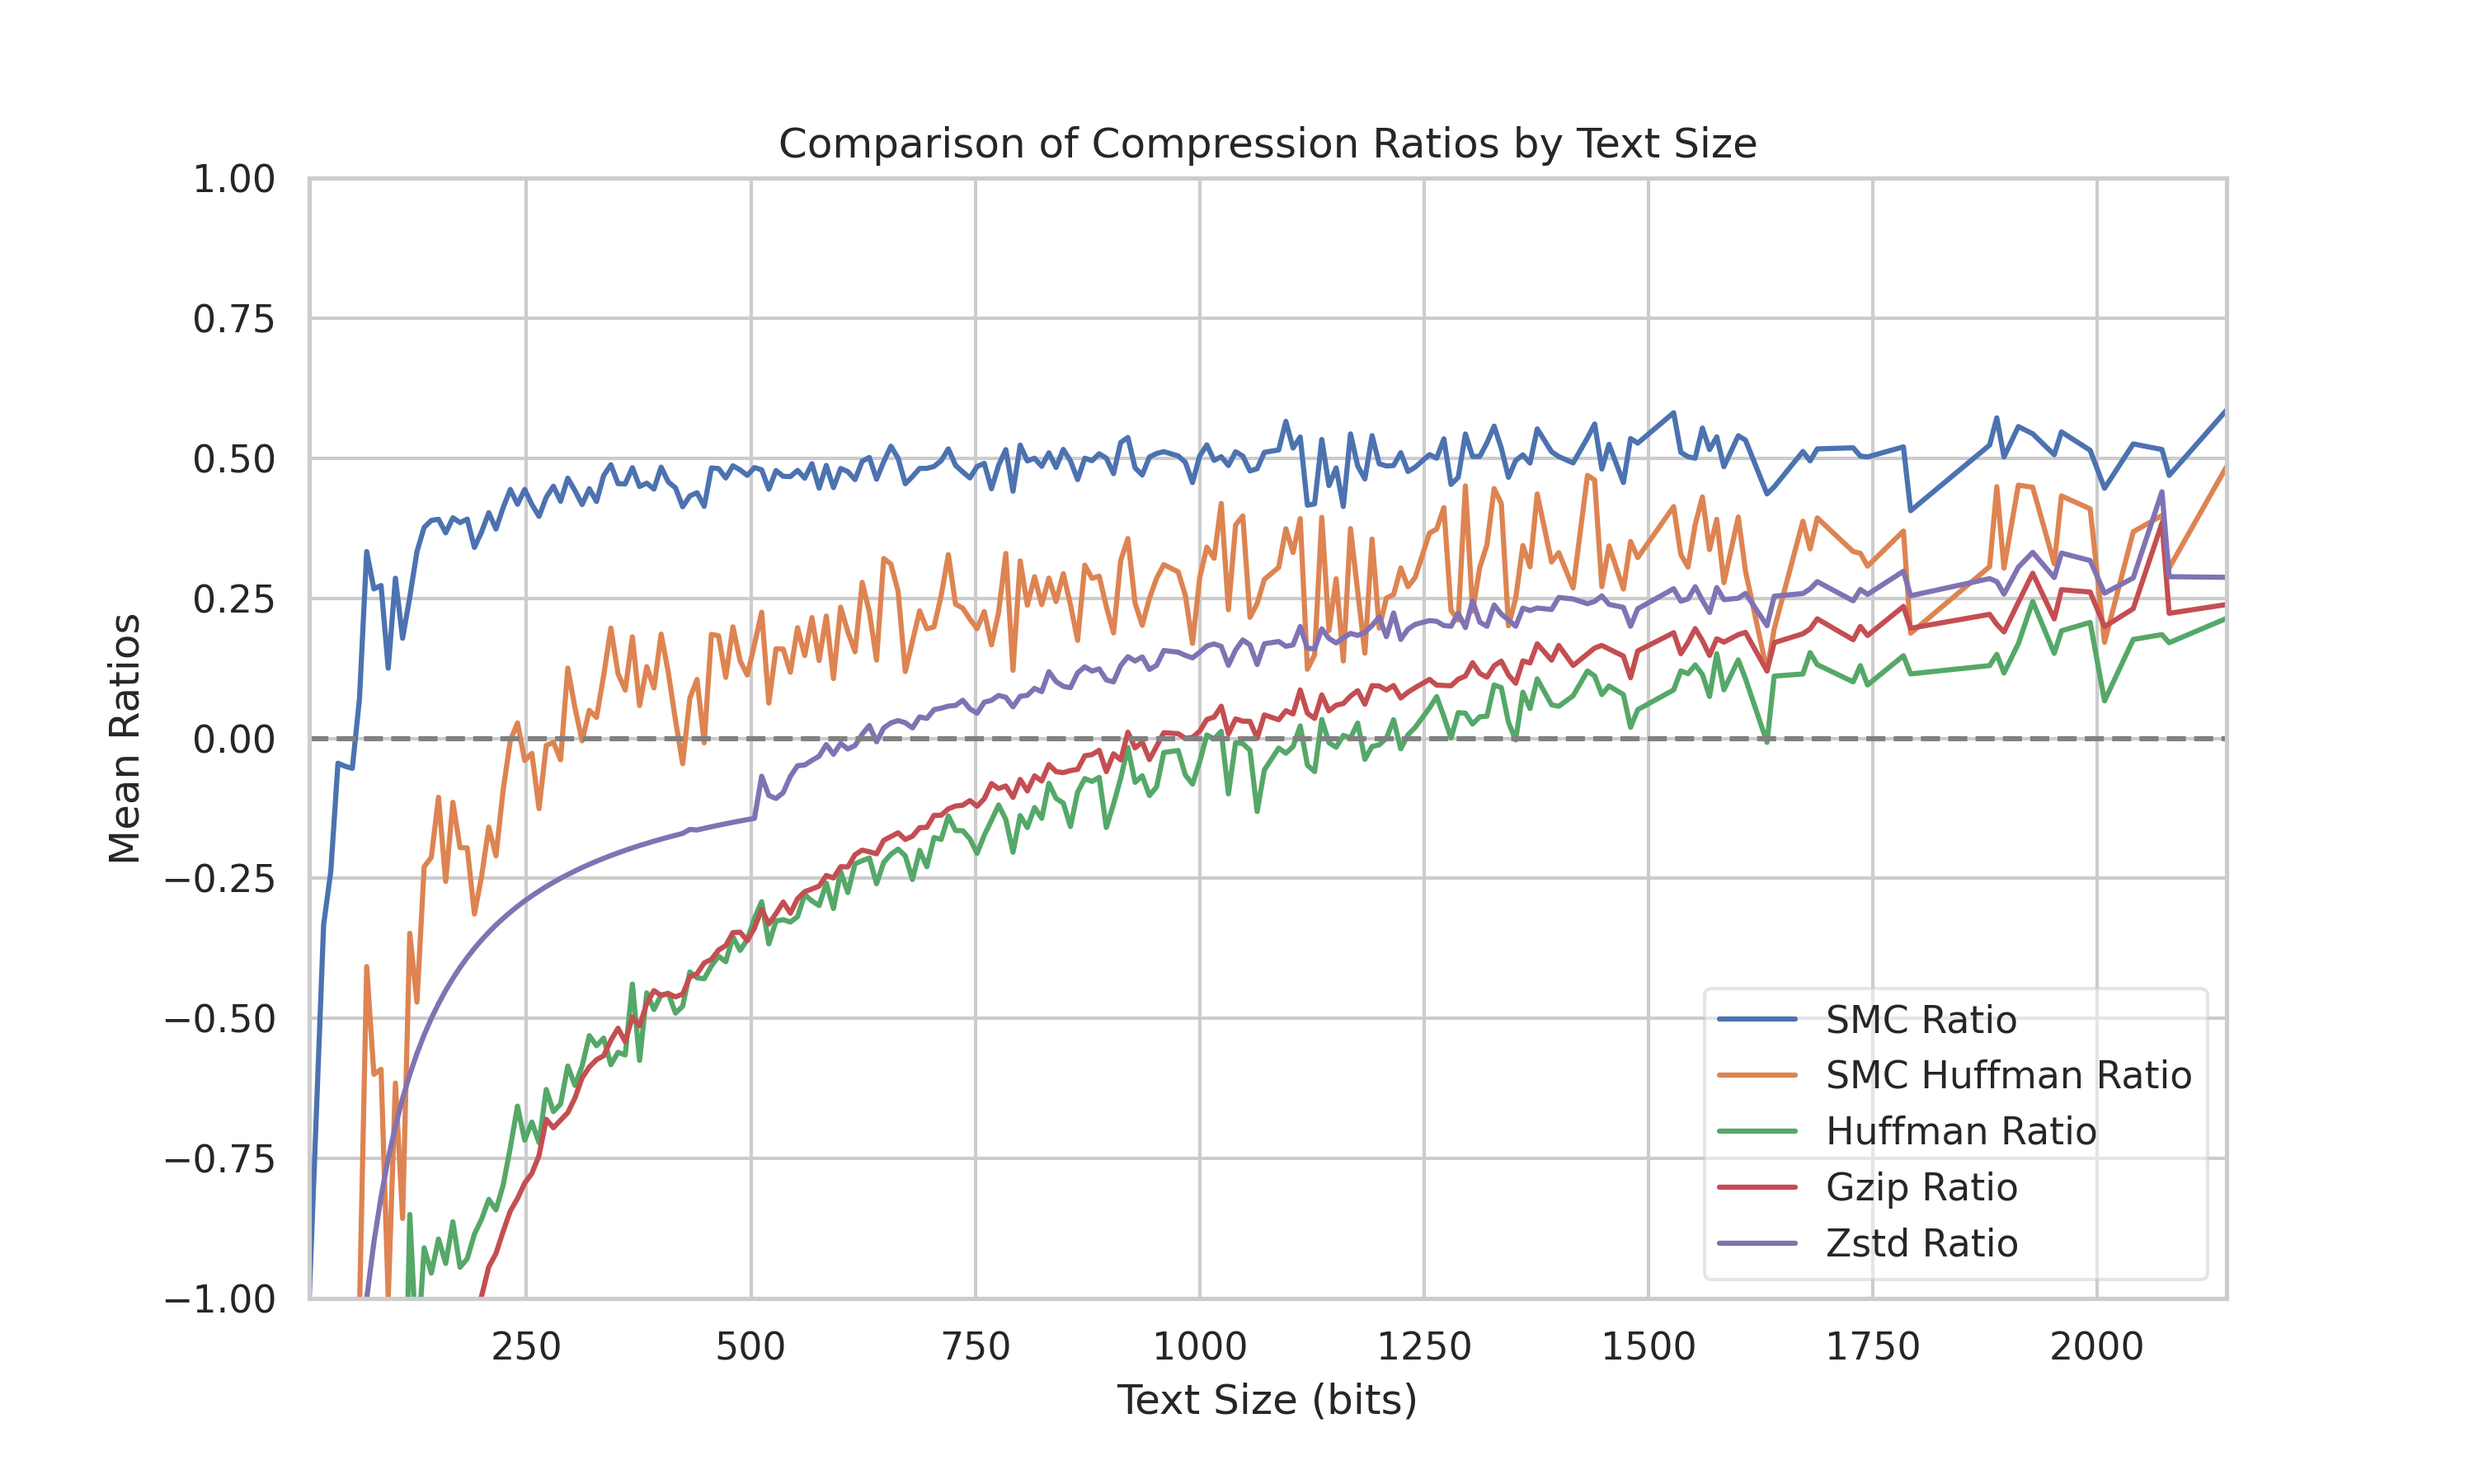
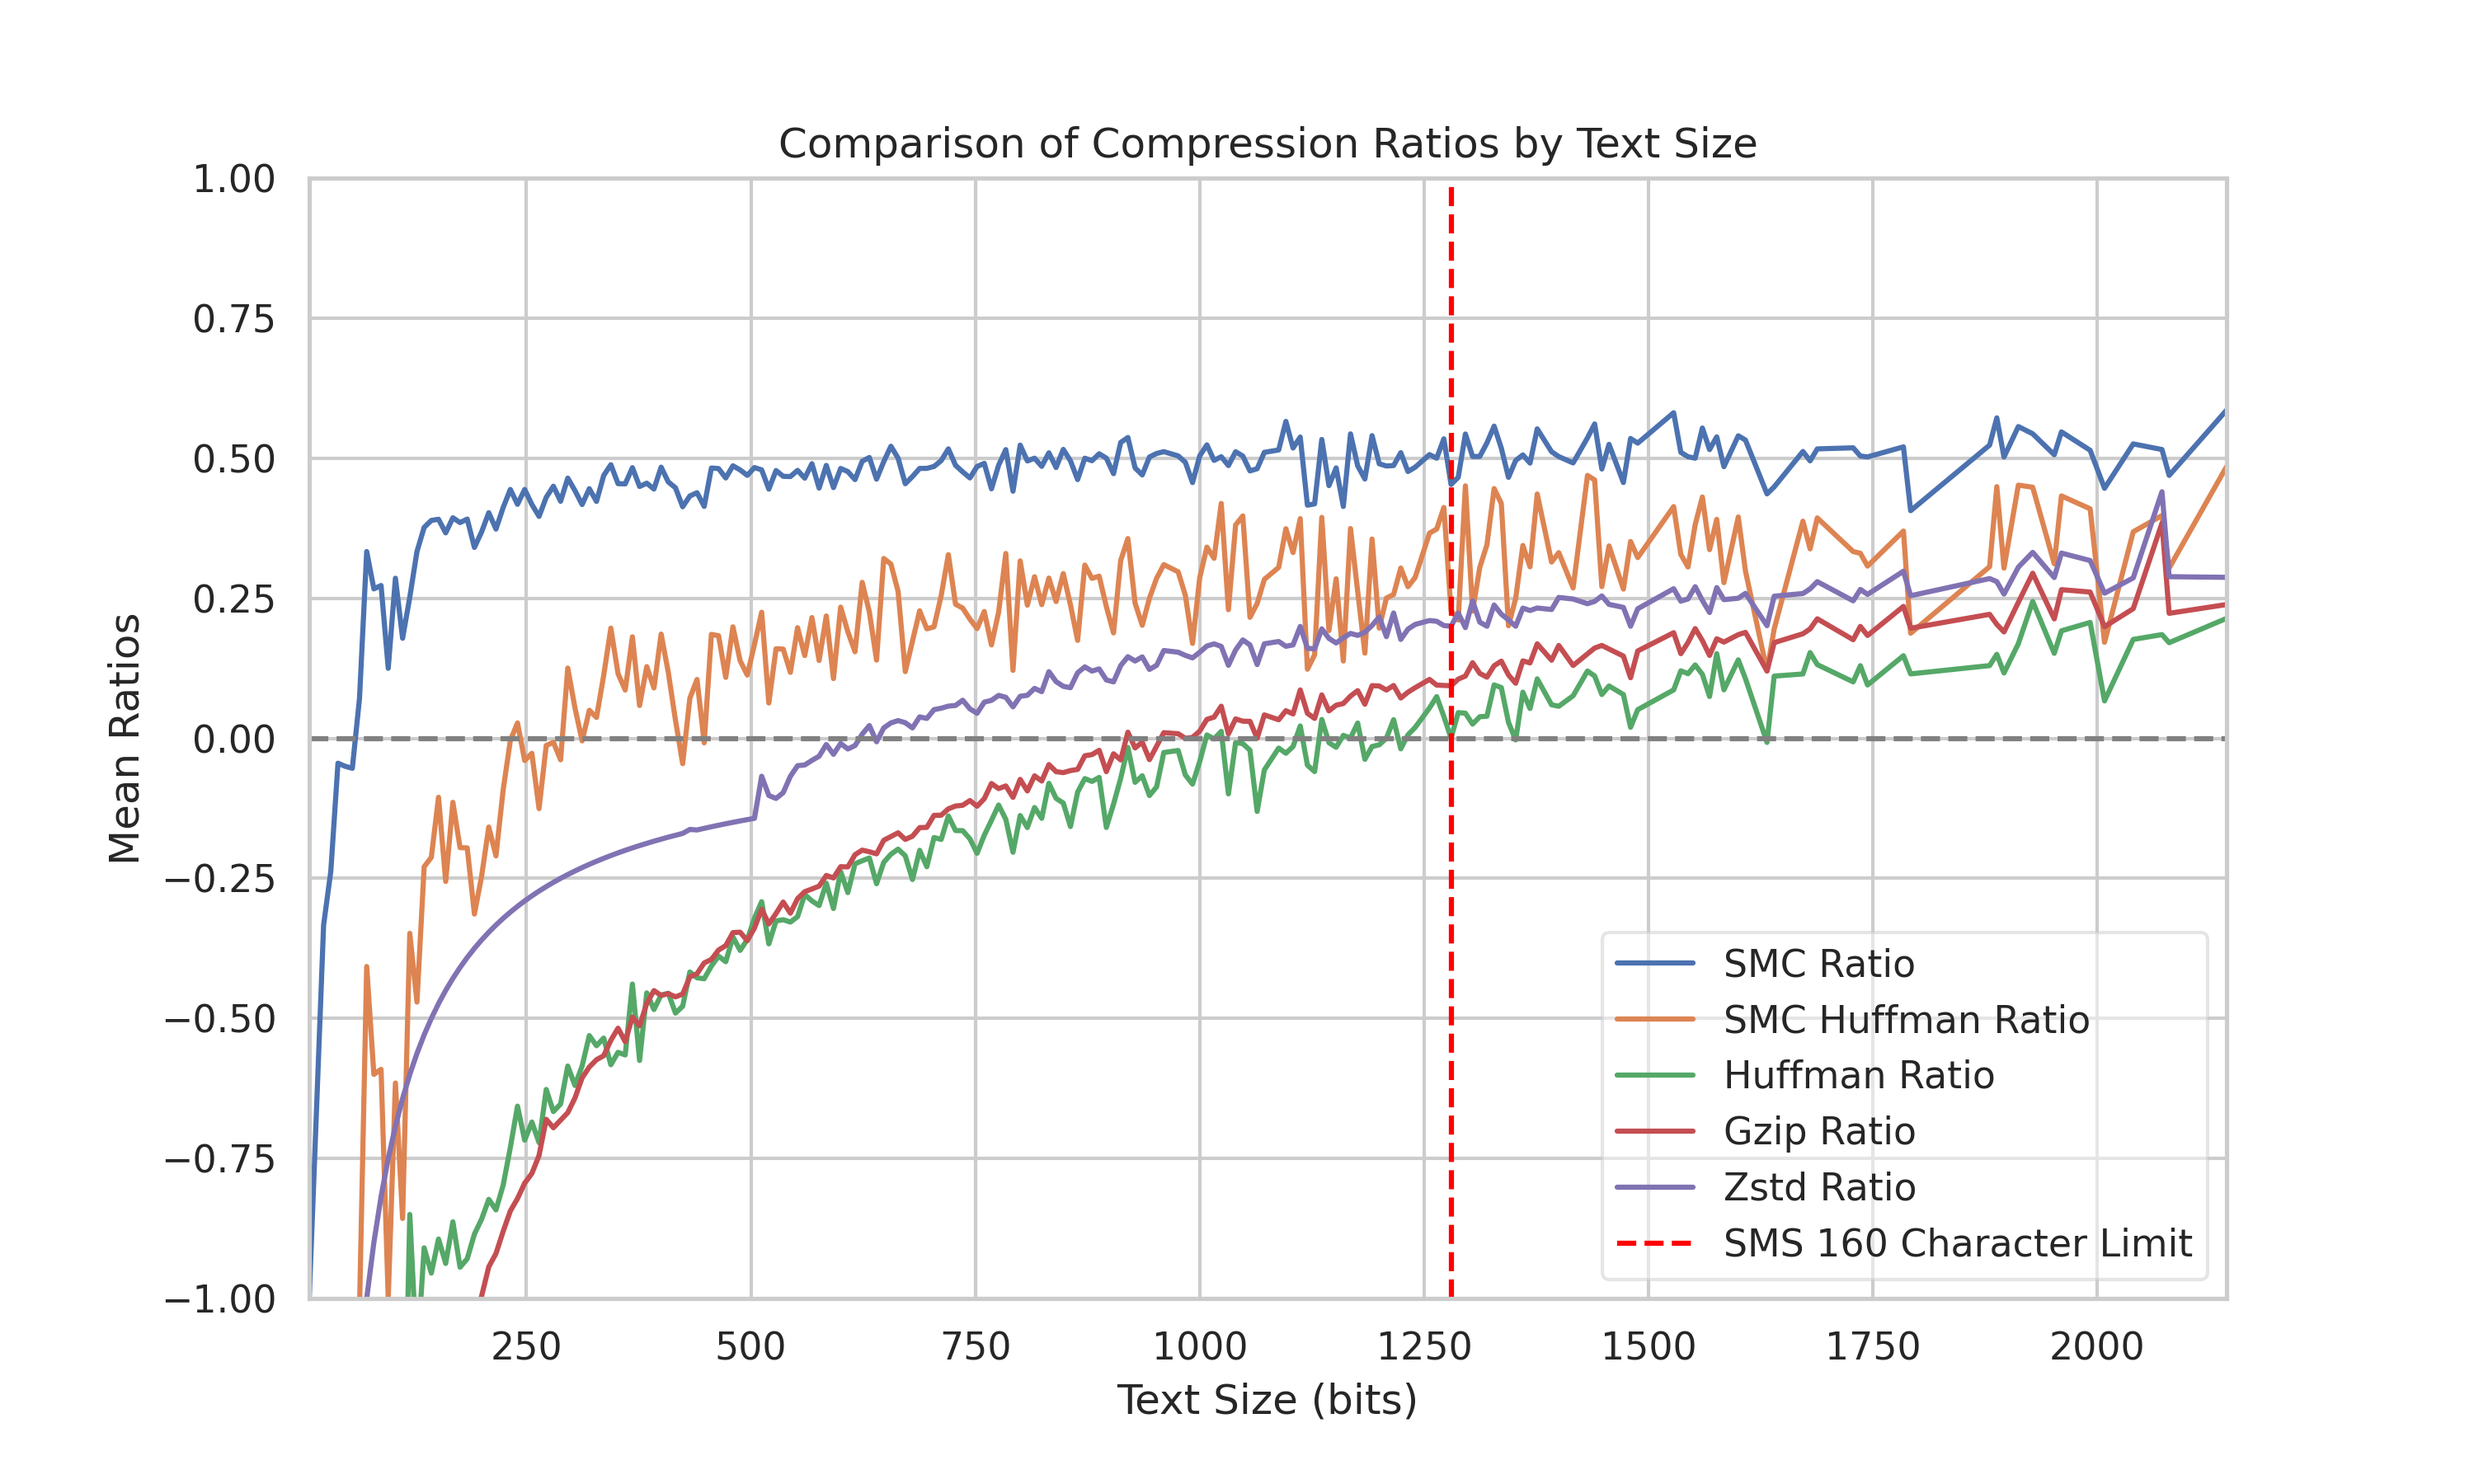
added dashed line for sms char limit.

Changed region(s): [[0.651, 0.6222, 0.899, 0.8711]]

diff --git a/process_data.py b/process_data.py
@@ -77,7 +77,10 @@ def run_plot(args):
     plt.ylabel('Mean Ratios')
     plt.ylim(-1, 1)  # Adjust these limits based on your data range
     plt.axhline(y=0, color='gray', linestyle='dashed')
-    
+
+    # Add a vertical line at x-coordinate 1280
+    plt.axvline(x=1280, color='red', linestyle='dashed', label='SMS 160 Character Limit')
+
     # Get the minimum and maximum text size values for x-axis limits
     min_text_size = df_plot['Text Size (bits)'].min()
     max_text_size = df_plot['Text Size (bits)'].max()
